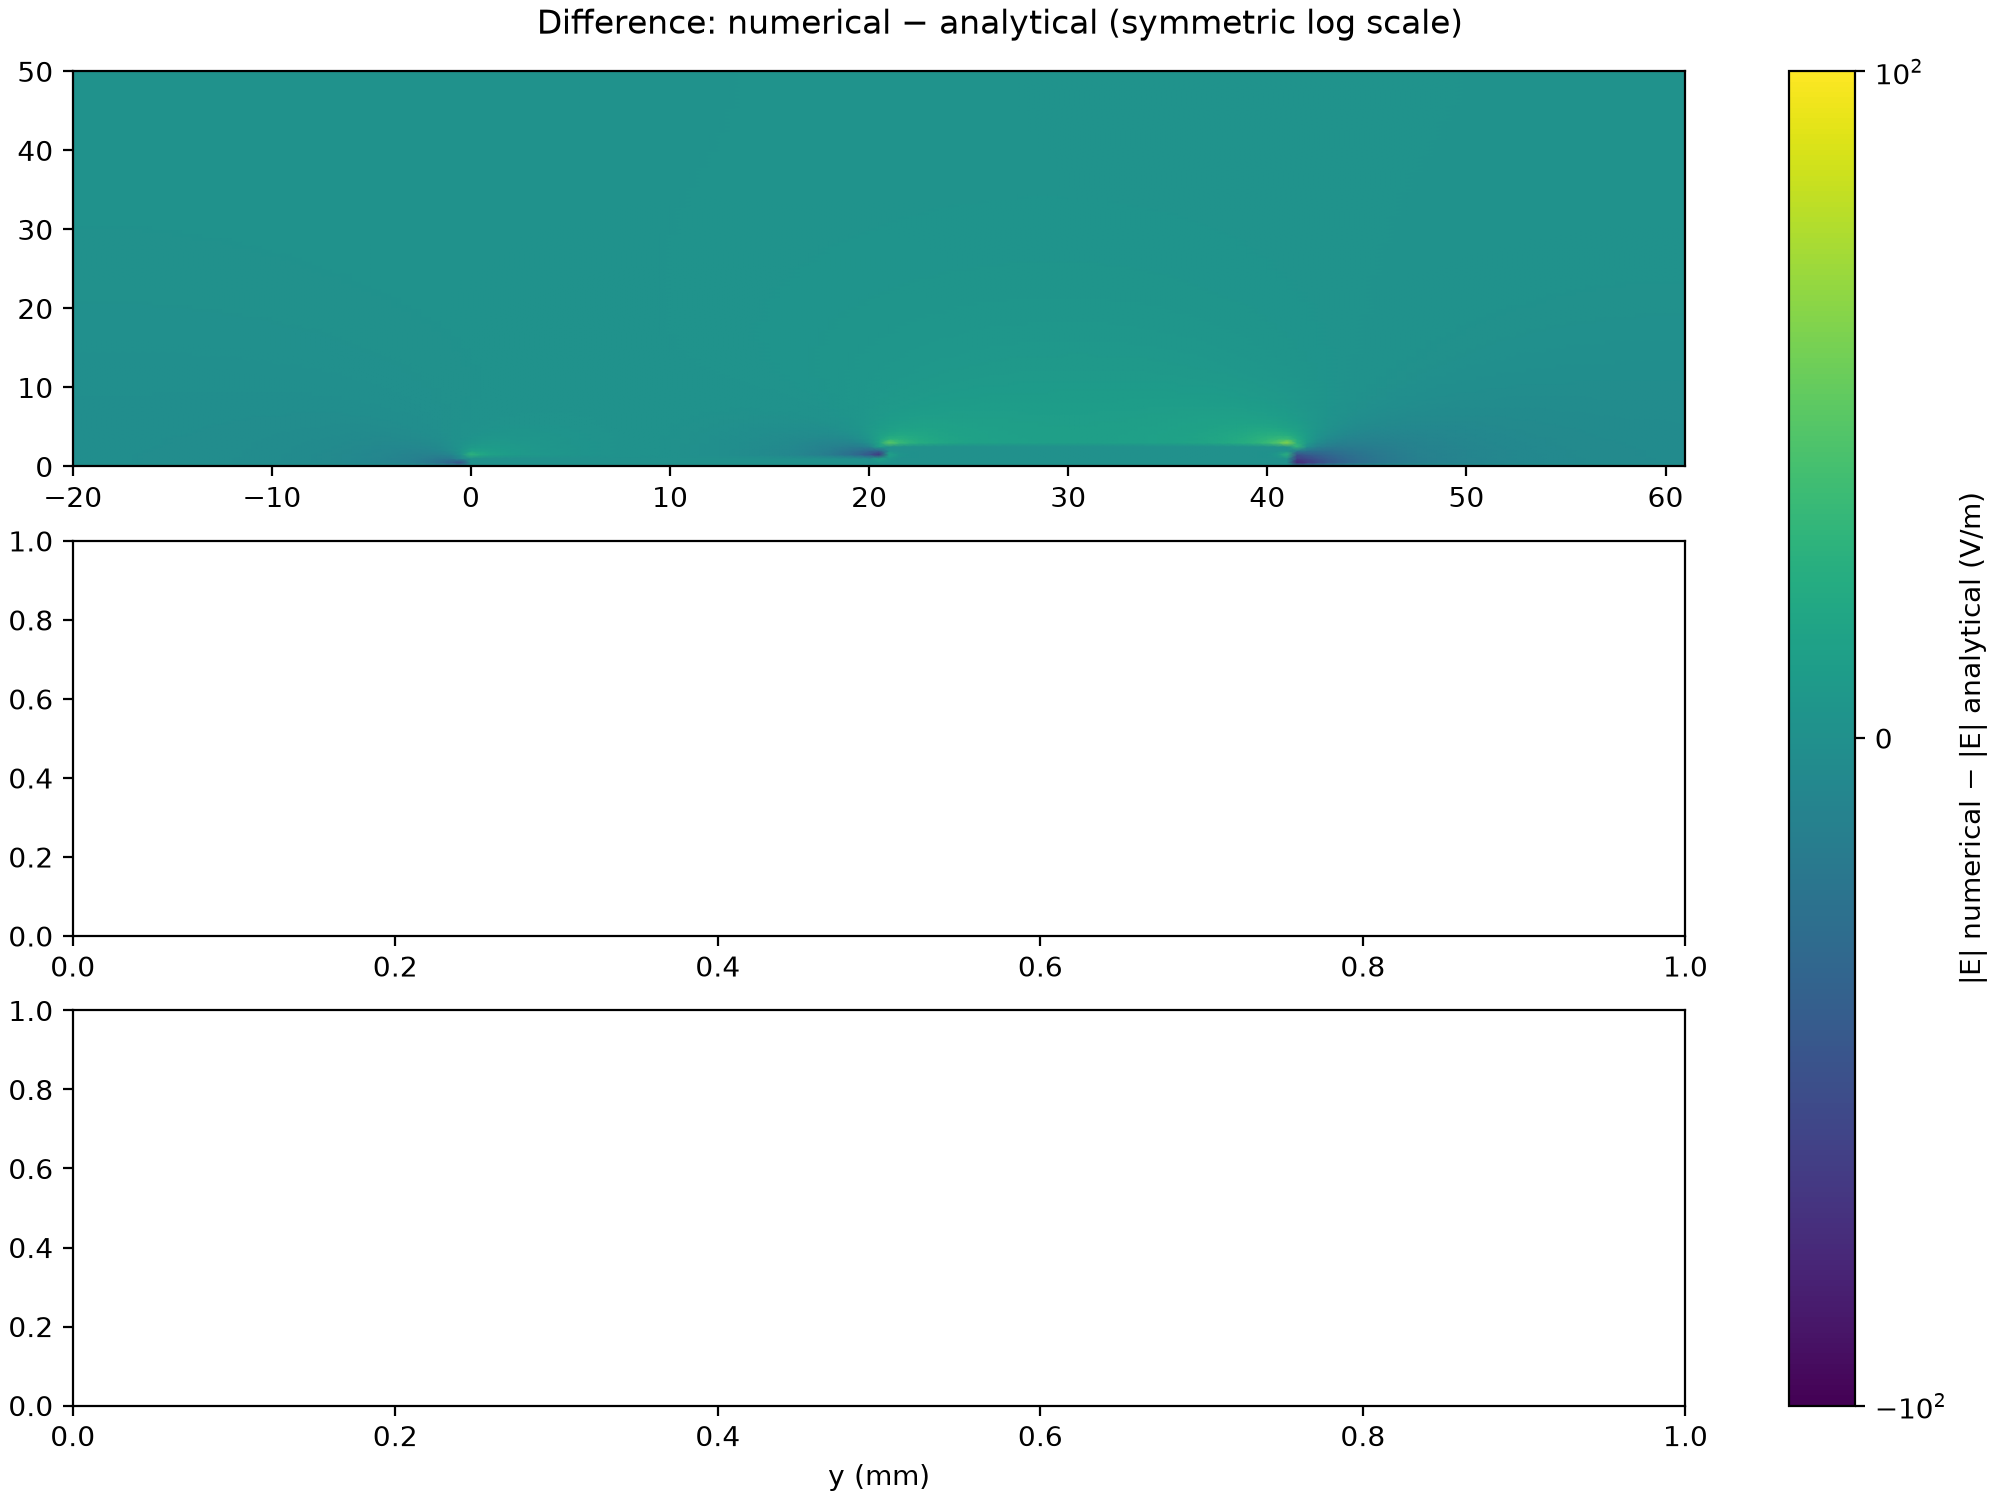
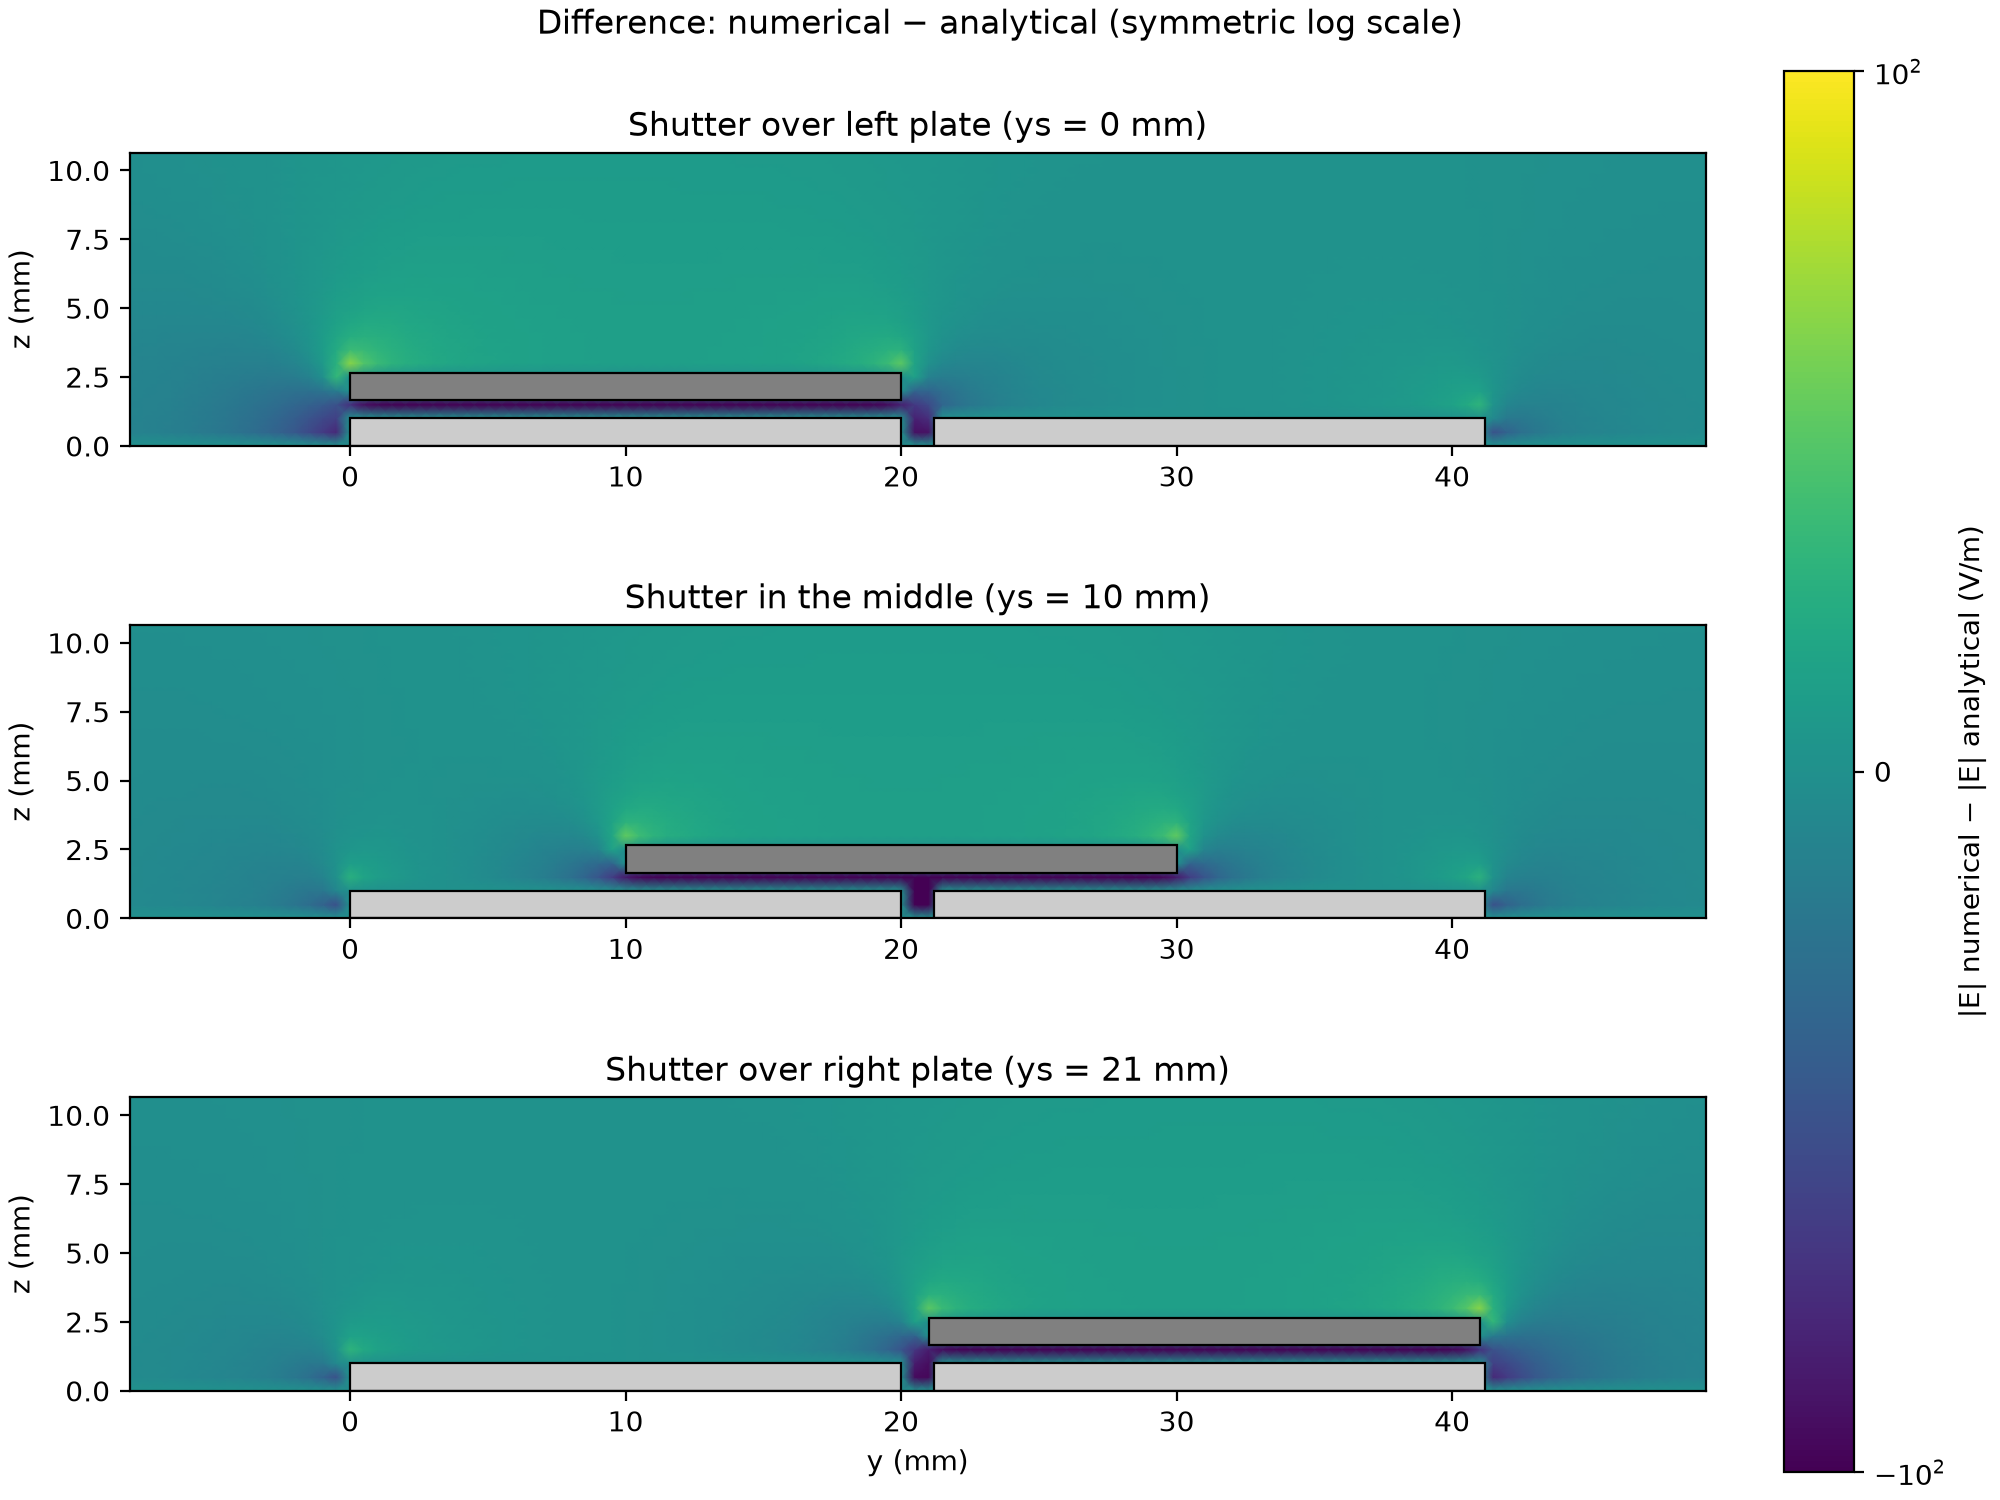
mag plot works need to get current and voltage working again

diff --git a/plots.py b/plots.py
@@ -28,8 +28,8 @@ def draw_plates(ax, ys):
 
 def analytical_E(y, z, ys):
     z_stop = np.zeros_like(y)                                   
-    z_stop[(y >= -TOL) & (y <= 2 * W + gap + TOL)] = t_p        
-    z_stop[(y >= ys - TOL) & (y <= ys + W + TOL)] = 2 * t_p + d 
+    z_stop[(y >= -TOL) & (y <= W + TOL)] = t_p        
+    z_stop[(y >= W + gap - TOL) & (y <= 2 * W + gap + TOL)] = t_p
     return np.where(z[:, None] > z_stop[None, :] + TOL, E0, 0.0)
 
 def current(ys, Q1, Q2):
@@ -51,8 +51,7 @@ def main():
     fig_nl, axs_nl = plt.subplots(3, 1, figsize=(10, 7.5), layout="constrained")
     fig_dl, axs_dl = plt.subplots(3, 1, figsize=(10, 7.5), layout="constrained")
 
-
-    for (name, ys), ax_n, ax_d in zip(SNAPSHOTS.items(), axs_n, axs_d):
+    for (name, ys), ax_n, ax_d, ax_nl, ax_dl in zip(SNAPSHOTS.items(), axs_n, axs_d, axs_nl, axs_dl):
         ys = np.round(ys / h) * h                
         V = solve_laplace(y, z, ys)
         E_num = numerical_E(V)
@@ -64,10 +63,10 @@ def main():
         im_n = ax_n.pcolormesh(y * 1e3, z * 1e3, E_num, shading="gouraud", cmap="viridis", vmin=0, vmax=1.5 * E0)
         im_d = ax_d.pcolormesh(y * 1e3, z * 1e3, dE, shading="gouraud", cmap="viridis", vmin=-E0, vmax=E0)
 
-        im_nl = axs_nl[0].pcolormesh(y * 1e3, z * 1e3, np.clip(E_num,0.1, None), shading="gouraud", cmap="viridis", norm=LogNorm(vmin=0.1 * E0, vmax=1.5 * E0))
-        im_dl = axs_dl[0].pcolormesh(y * 1e3, z * 1e3, dE, shading="gouraud", cmap="viridis", norm=SymLogNorm(linthresh=1 * E0, vmin=-E0, vmax=E0))
+        im_nl = ax_nl.pcolormesh(y * 1e3, z * 1e3, np.clip(E_num,0.1, None), shading="gouraud", cmap="viridis", norm=LogNorm(vmin=0.1, vmax=1.5 * E0))
+        im_dl = ax_dl.pcolormesh(y * 1e3, z * 1e3, dE, shading="gouraud", cmap="viridis", norm=SymLogNorm(linthresh=1 * E0, vmin=-E0, vmax=E0))
 
-        for ax in (ax_n, ax_d):
+        for ax in (ax_n, ax_d, ax_nl, ax_dl):
             draw_plates(ax, ys)
             ax.set_title(f"{name} (ys = {ys * 1e3:.0f} mm)")
     
